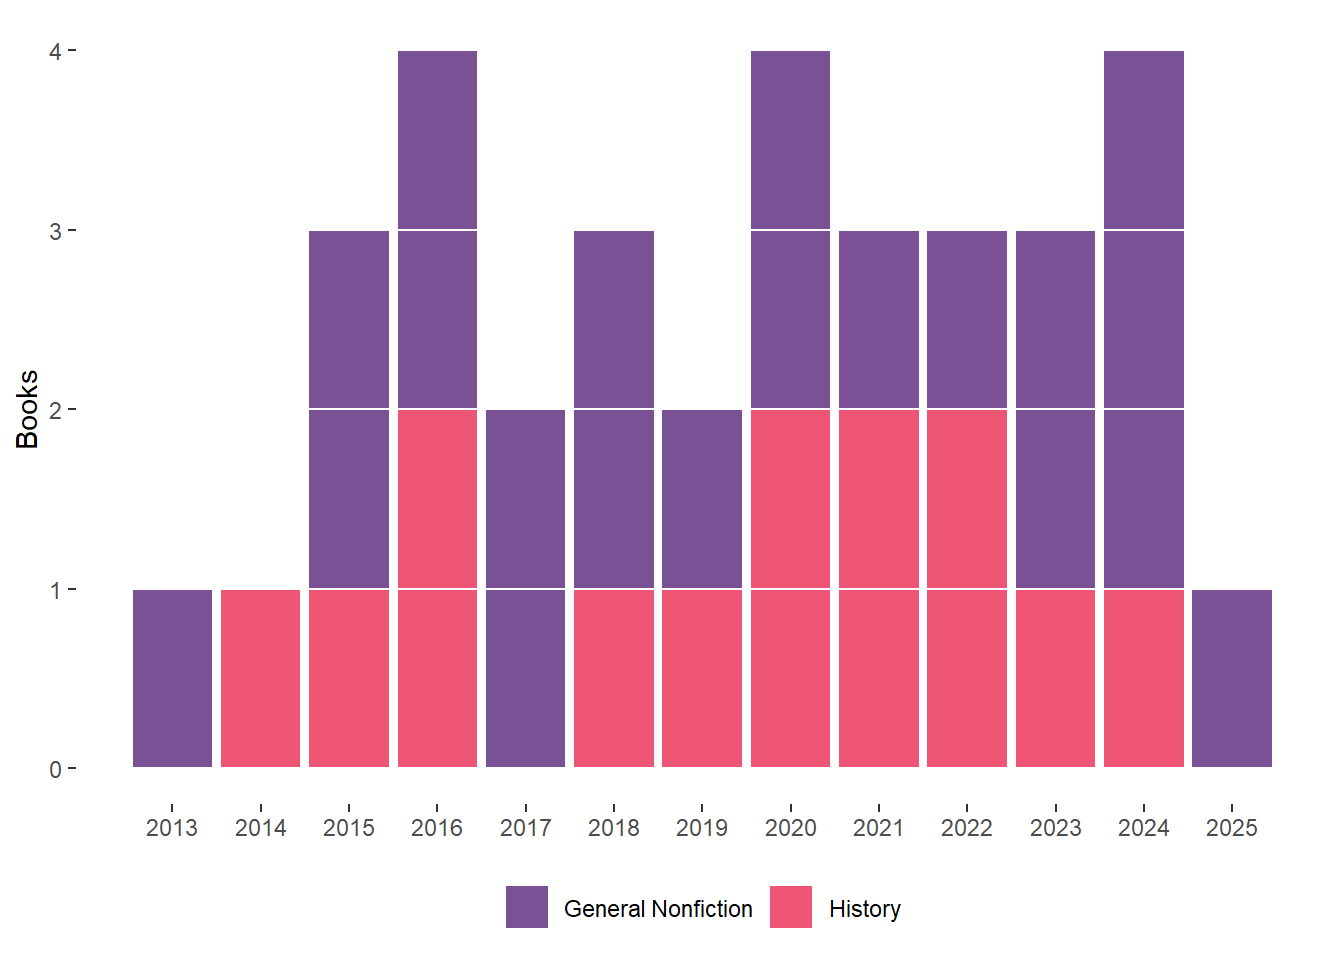
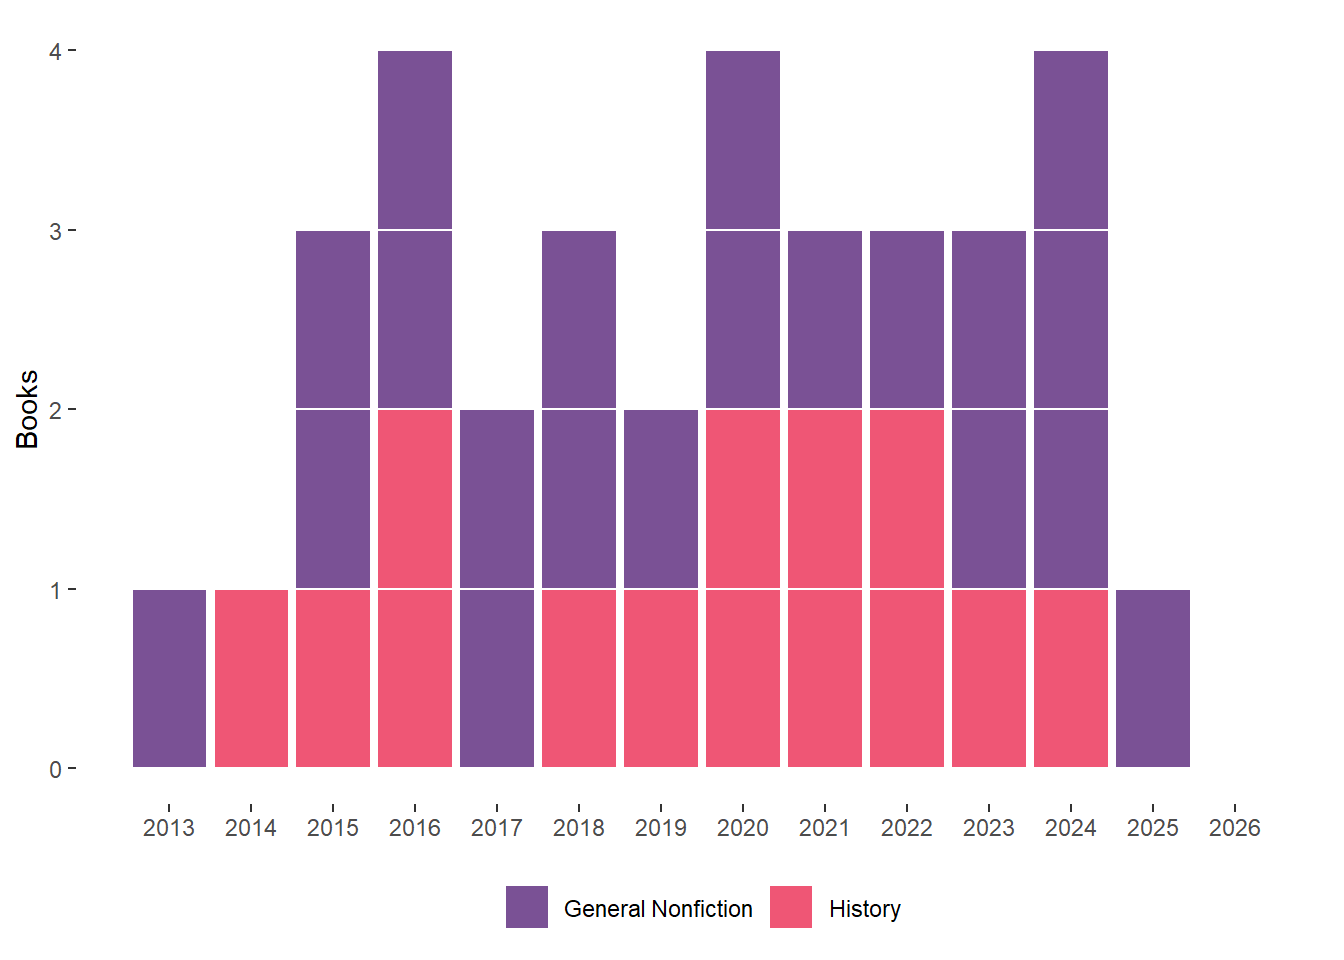
Updated pages

Changed region(s): [[0.1562, 0.0312, 0.9688, 0.8125], [0.0938, 0.8438, 0.9375, 0.875]]

diff --git a/authors.html b/authors.html
@@ -13,7 +13,7 @@
 
 <title>Authors</title>
 
-<script src="site_libs/header-attrs-2.30/header-attrs.js"></script>
+<script src="site_libs/header-attrs-2.31/header-attrs.js"></script>
 <script src="site_libs/jquery-3.6.0/jquery-3.6.0.min.js"></script>
 <meta name="viewport" content="width=device-width, initial-scale=1" />
 <link href="site_libs/bootstrap-3.3.5/css/bootstrap.min.css" rel="stylesheet" />
@@ -32,14 +32,14 @@
 <script src="site_libs/navigation-1.1/tabsets.js"></script>
 <link href="site_libs/highlightjs-9.12.0/default.css" rel="stylesheet" />
 <script src="site_libs/highlightjs-9.12.0/highlight.js"></script>
-<link href="site_libs/htmltools-fill-0.5.8.1/fill.css" rel="stylesheet" />
+<link href="site_libs/htmltools-fill-0.5.9/fill.css" rel="stylesheet" />
 <script src="site_libs/htmlwidgets-1.6.4/htmlwidgets.js"></script>
-<script src="site_libs/plotly-binding-4.11.0/plotly.js"></script>
+<script src="site_libs/plotly-binding-4.12.0/plotly.js"></script>
 <script src="site_libs/typedarray-0.1/typedarray.min.js"></script>
 <link href="site_libs/crosstalk-1.2.2/css/crosstalk.min.css" rel="stylesheet" />
 <script src="site_libs/crosstalk-1.2.2/js/crosstalk.min.js"></script>
-<link href="site_libs/plotly-htmlwidgets-css-2.11.1/plotly-htmlwidgets.css" rel="stylesheet" />
-<script src="site_libs/plotly-main-2.11.1/plotly-latest.min.js"></script>
+<link href="site_libs/plotly-htmlwidgets-css-2.25.2/plotly-htmlwidgets.css" rel="stylesheet" />
+<script src="site_libs/plotly-main-2.25.2/plotly-latest.min.js"></script>
 
 <style type="text/css">
   code{white-space: pre-wrap;}
@@ -281,8 +281,8 @@ reading. Ideally, the books I read will not only entertain me, but
 expand my worldview. There are lots of ways to think and measure that,
 but a simple one is to track the backgrounds of the authors, so I’m
 starting there.</p>
-<div class="plotly html-widget html-fill-item" id="htmlwidget-e2976cebf0024a33a31b" style="width:100%;height:480px;"></div>
-<script type="application/json" data-for="htmlwidget-e2976cebf0024a33a31b">{"x":{"visdat":{"242c65de1aad":["function () ","plotlyVisDat"]},"cur_data":"242c65de1aad","attrs":{"242c65de1aad":{"x":{},"y":{},"mode":"lines+markers","line":{"color":"#ef5675","width":4},"marker":{"color":"#ef5675","size":6},"name":"Authors of Color","alpha_stroke":1,"sizes":[10,100],"spans":[1,20],"type":"scatter"},"242c65de1aad.1":{"x":{},"y":{},"mode":"lines+markers","line":{"color":"#7a5195","width":4},"marker":{"color":"#7a5195","size":6},"name":"Female Authors","alpha_stroke":1,"sizes":[10,100],"spans":[1,20],"type":"scatter","inherit":true}},"layout":{"margin":{"b":40,"l":60,"t":25,"r":10},"legend":{"orientation":"h","font":{"size":12,"family":"Arial"}},"yaxis":{"domain":[0,1],"automargin":true,"title":"Percentage","titlefont":{"size":14,"family":"Arial"}},"xaxis":{"domain":[0,1],"automargin":true,"title":"","tickfont":{"size":12,"family":"Arial"}},"hovermode":"closest","showlegend":true},"source":"A","config":{"modeBarButtonsToAdd":["hoverclosest","hovercompare"],"showSendToCloud":false,"displayModeBar":false},"data":[{"x":[2017,2018,2019,2020,2021,2022,2023,2024,2025,2026],"y":[22.199999999999999,8.6999999999999993,17.399999999999999,33.299999999999997,40,19,16.699999999999999,37.5,66.700000000000003,100],"mode":"lines+markers","line":{"color":"#ef5675","width":4},"marker":{"color":"#ef5675","size":6,"line":{"color":"rgba(31,119,180,1)"}},"name":"Authors of Color","type":"scatter","error_y":{"color":"rgba(31,119,180,1)"},"error_x":{"color":"rgba(31,119,180,1)"},"xaxis":"x","yaxis":"y","frame":null},{"x":[2017,2018,2019,2020,2021,2022,2023,2024,2025,2026],"y":[22.199999999999999,26.100000000000001,30.399999999999999,11.1,50,38.100000000000001,16.699999999999999,25,35.299999999999997,0],"mode":"lines+markers","line":{"color":"#7a5195","width":4},"marker":{"color":"#7a5195","size":6,"line":{"color":"rgba(255,127,14,1)"}},"name":"Female Authors","type":"scatter","error_y":{"color":"rgba(255,127,14,1)"},"error_x":{"color":"rgba(255,127,14,1)"},"xaxis":"x","yaxis":"y","frame":null}],"highlight":{"on":"plotly_click","persistent":false,"dynamic":false,"selectize":false,"opacityDim":0.20000000000000001,"selected":{"opacity":1},"debounce":0},"shinyEvents":["plotly_hover","plotly_click","plotly_selected","plotly_relayout","plotly_brushed","plotly_brushing","plotly_clickannotation","plotly_doubleclick","plotly_deselect","plotly_afterplot","plotly_sunburstclick"],"base_url":"https://plot.ly"},"evals":[],"jsHooks":[]}</script>
+<div class="plotly html-widget html-fill-item" id="htmlwidget-4b3b52c2eed2bbdffa68" style="width:100%;height:480px;"></div>
+<script type="application/json" data-for="htmlwidget-4b3b52c2eed2bbdffa68">{"x":{"visdat":{"55a83b656494":["function () ","plotlyVisDat"]},"cur_data":"55a83b656494","attrs":{"55a83b656494":{"x":{},"y":{},"mode":"lines+markers","line":{"color":"#ef5675","width":4},"marker":{"color":"#ef5675","size":6},"name":"Authors of Color","alpha_stroke":1,"sizes":[10,100],"spans":[1,20],"type":"scatter"},"55a83b656494.1":{"x":{},"y":{},"mode":"lines+markers","line":{"color":"#7a5195","width":4},"marker":{"color":"#7a5195","size":6},"name":"Female Authors","alpha_stroke":1,"sizes":[10,100],"spans":[1,20],"type":"scatter","inherit":true}},"layout":{"margin":{"b":40,"l":60,"t":25,"r":10},"legend":{"orientation":"h","font":{"size":12,"family":"Arial"}},"yaxis":{"domain":[0,1],"automargin":true,"title":"Percentage","titlefont":{"size":14,"family":"Arial"}},"xaxis":{"domain":[0,1],"automargin":true,"title":"","tickfont":{"size":12,"family":"Arial"}},"hovermode":"closest","showlegend":true},"source":"A","config":{"modeBarButtonsToAdd":["hoverclosest","hovercompare"],"showSendToCloud":false,"displayModeBar":false},"data":[{"x":[2017,2018,2019,2020,2021,2022,2023,2024,2025,2026],"y":[22.199999999999999,8.6999999999999993,17.399999999999999,33.299999999999997,40,19,16.699999999999999,37.5,66.700000000000003,50],"mode":"lines+markers","line":{"color":"#ef5675","width":4},"marker":{"color":"#ef5675","size":6,"line":{"color":"rgba(31,119,180,1)"}},"name":"Authors of Color","type":"scatter","error_y":{"color":"rgba(31,119,180,1)"},"error_x":{"color":"rgba(31,119,180,1)"},"xaxis":"x","yaxis":"y","frame":null},{"x":[2017,2018,2019,2020,2021,2022,2023,2024,2025,2026],"y":[22.199999999999999,26.100000000000001,30.399999999999999,11.1,50,38.100000000000001,16.699999999999999,25,33.299999999999997,33.299999999999997],"mode":"lines+markers","line":{"color":"#7a5195","width":4},"marker":{"color":"#7a5195","size":6,"line":{"color":"rgba(255,127,14,1)"}},"name":"Female Authors","type":"scatter","error_y":{"color":"rgba(255,127,14,1)"},"error_x":{"color":"rgba(255,127,14,1)"},"xaxis":"x","yaxis":"y","frame":null}],"highlight":{"on":"plotly_click","persistent":false,"dynamic":false,"selectize":false,"opacityDim":0.20000000000000001,"selected":{"opacity":1},"debounce":0},"shinyEvents":["plotly_hover","plotly_click","plotly_selected","plotly_relayout","plotly_brushed","plotly_brushing","plotly_clickannotation","plotly_doubleclick","plotly_deselect","plotly_afterplot","plotly_sunburstclick"],"base_url":"https://plot.ly"},"evals":[],"jsHooks":[]}</script>
 
 
 

diff --git a/pullitzer.html b/pullitzer.html
@@ -296,8 +296,8 @@ class="section level5">
 <h2>The full list</h2>
 <p>These are the finalists and winners of general nonfiction and
 history, and my progress in reading them.</p>
-<div class="reactable html-widget html-fill-item" id="htmlwidget-66e55d0888a2282f01ba" style="width:auto;height:auto;"></div>
-<script type="application/json" data-for="htmlwidget-66e55d0888a2282f01ba">{"x":{"tag":{"name":"Reactable","attribs":{"data":{"year":[2025,2025,2025,2025,2025,2025,2024,2024,2024,2024,2024,2024,2023,2023,2023,2023,2023,2023,2023,2022,2022,2022,2022,2022,2022,2021,2021,2021,2021,2021,2021,2020,2020,2020,2020,2020,2020,2019,2019,2019,2019,2019,2019,2018,2018,2018,2018,2018,2018,2017,2017,2017,2017,2017,2017,2016,2016,2016,2016,2016,2016,2016,2015,2015,2015,2015,2015,2015,2014,2014,2014,2014,2014,2014,2013,2013,2013,2013,2013,2013,2012,2012,2012,2012,2012,2012,2012,2011,2011,2011,2011,2011,2011,2010,2010,2010],"short.title":["Combee","Native Nations","Plantation Goods","To the Success of Our Hopeless Cause","I Am on the Hit List","Until I Find You","No Right to an Honest Living","American Anarchy","Continental Reckoning","A Day in the Life of Abed Salama","Fire Weather","Cobalt Red","Freedom's Dominion","Seeing Red","Watergate","His Name Is George Floyd","Kingdom of Characters","Sounds Wild and Broken","Under the Skin","Covered with Night","Cuba","Until Justice Be Done","Invisible Child","Home, Land, Security","The Family Roe","Franchise","The Three-Cornered War","The Deviant's War","Wilmington's Lie","Minor Feelings","Yellow Bird","Sweet Taste of Liberty ","Race for Profit","The End of the Myth ","The Undying","Solitary","Elderhood","Frederick Douglass ","American Eden ","Civilizing Torture ","Amity and Prosperity","In a Day's Work","Rising","The Gulf","Fear City","Hitler in Los Angeles ","Locking Up Our Own ","Notes on a Foreign Country ","The Evolution of Beauty","Blood in the Water ","Brothers at Arms","New England Bound","Evicted","In a Different Key ","The Politics of Mourning ","Custer's Trials","Marching Home","Target Tokyo","The Pentagon's Brain","Black Flags","Between the World and Me","If the Oceans Were Ink ","Encounters at the Heart of the World","An Empire on the Edge","Empire of Cotton","The Sixth Extinction","Age of Ambition","No Good Men Among the Living","The Internal Enemy","A Dreadful Deceit","Command and Control","Toms River","The Blood Telegram","The Insurgents","Embers of War","Lincoln's Code","The Barbarous Years","Devil in the Grove","Behind the Beautiful Forevers","The Forest Unseen","Malcolm X","Empires, Nations & Families","Railroaded","The Eleventh Day","The Swerve","One Hundred Names For Love","Unnatural Selection","The Fiery Trial","Confederate Reckoning","Eden on the Charles","The Emperor of All Maladies","Empire of the Summer Moon","The Shallows","Lords of Finance","Empire of Liberty","Fordlandia"],"author":["Edda L. Fields-Black","Kathleen DuVal","Seth Rockman","Benjamin Nathans","Rollo Romig","Rachel Nolan","Jacqueline Jones","Michael Willrich","Elliott West","Nathan Thrall","John Vaillant","Siddharth Kara","Jefferson Cowie","Michael John Witgen","Garrett M. Graff","Robert Samuels and Toluse Olorunnipa","Jing Tsu","David George Haskell","Linda Villarosa","Nicole Eustace","Ada Ferrer","Kate Masur","Andrea Elliott","Carla Power","Joshua Prager","Marcia Chatelain","Megan Kate Nelson","Eric Cervini","David Zucchino","Cathy Park Hong","Sierra Crane Murdoch","W. Caleb McDaniel","Keeanga-Yamhatta Taylor","Greg Grandin","Anne Boyer","Albert Woodfox","Louise Aronson","David W. Blight","Victoria Johnson","W. Fitzhugh Brundage","Eliza Griswold","Bernice Yeung","Elizabeth Rush","Jack E. Davis","Kim Phillips-Fein","Steven J. Ross","James Forman Jr.","Suzy Hansen","Richard O. Prum","Heather Ann Thompson","Larrie D. Ferreiro","Wendy Warren","Matthew Desmond","John Donvan and Caren Zucker","Micki McElya","T.J. Stiles","Brian Matthew Jordan","James M. Scott","Annie Jacobsen","Joby Warrick","Ta-Nehisi Coates","Carla Power","Elizabeth A. Fenn","Nick Bunker","Steven Beckert","Elizabeth Kolbert","Evan Osnos","Anand Gopal","Alan Taylor","Jacqueline Jones","Eric Schlosser","Dan Fagin","Gary J. Bass","Fred Kaplan","Fredrik Logeval","John Fabian Witt","Bernard Bailyn","Gilbert King","Katherine Boo","David George Haskell","Manning Marable","Anne F. Hyde","Richard White","Anthony Summers and Robbyn Swan","Stephen Greenblatt","Diane Ackerman","Mara Hvistendahl","Eric Foner","Stephanie McCurry","Michael Rawson","Siddhartha Mukherjee","S.C. Gwynne","Nicholas Carr","Liaquat Ahamed","Gordon S. Wood","Greg Grandin"],"read":["No","No","No","No","Yes","No","No","Yes","No","Yes","Yes","Yes","No","No","Yes","No","Yes","No","Yes","Yes","Yes","No","No","Yes","No","Yes","Yes","No","No","No","Yes","Yes","Yes","Yes","No","Yes","No","No","No","Yes","Yes","No","No","Yes","No","No","Yes","No","Yes","No","No","No","Yes","Yes","No","Yes","No","No","Yes","Yes","Yes","No","Yes","No","No","No","Yes","Yes","No","No","Yes","No","No","No","No","No","No","No","Yes","No","No","No","No","No","No","No","No","No","No","No","No","No","No","No","No","No"],"award":["Winner","Winner","Finalist","Winner","Finalist","Finalist","Winner","Finalist","Finalist","Winner","Finalist","Finalist","Winner","Finalist","Finalist","Winner","Finalist","Finalist","Finalist","Winner","Winner","Finalist","Winner","Finalist","Finalist","Winner","Finalist","Finalist","Winner","Finalist","Finalist","Winner","Finalist","Winner","Winner","Finalist","Finalist","Winner","Finalist","Finalist","Winner","Finalist","Finalist","Winner","Finalist","Finalist","Winner","Finalist","Finalist","Winner","Finalist","Finalist","Winner","Finalist","Finalist","Winner","Finalist","Finalist","Finalist","Winner","Finalist","Finalist","Winner","Finalist","Finalist","Winner","Finalist","Finalist","Winner","Finalist","Finalist","Winner","Finalist","Finalist","Winner","Finalist","Finalist","Winner","Finalist","Finalist","Winner","Finalist","Finalist","Finalist","Winner","Finalist","Finalist","Winner","Finalist","Finalist","Winner","Finalist","Finalist","Winner","Finalist","Finalist"],"category":["History","History","History","General Non-Fiction","General Non-Fiction","General Non-Fiction","History","History","History","General Non-Fiction","General Non-Fiction","General Non-Fiction","History","History","History","General Non-Fiction","General Non-Fiction","General Non-Fiction","General Non-Fiction","History","History","History","General Non-Fiction","General Non-Fiction","General Non-Fiction","History","History","History","General Non-Fiction","General Non-Fiction","General Non-Fiction","History","History","General Non-Fiction","General Non-Fiction","General Non-Fiction","General Non-Fiction","History","History","History","General Non-Fiction","General Non-Fiction","General Non-Fiction","History","History","History","General Non-Fiction","General Non-Fiction","General Non-Fiction","History","History","History","General Non-Fiction","General Non-Fiction","General Non-Fiction","History","History","History","History","General Non-Fiction","General Non-Fiction","General Non-Fiction","History","History","History","General Non-Fiction","General Non-Fiction","General Non-Fiction","History","History","History","General Non-Fiction","General Non-Fiction","General Non-Fiction","History","History","History","General Non-Fiction","General Non-Fiction","General Non-Fiction","History","History","History","History","General Non-Fiction","General Non-Fiction","General Non-Fiction","History","History","History","General Non-Fiction","General Non-Fiction","General Non-Fiction","History","History","History"]},"columns":[{"id":"year","name":"Year","type":"numeric"},{"id":"short.title","name":"Title","type":"character","minWidth":150},{"id":"author","name":"Author","type":"character"},{"id":"read","name":"Read","type":"character","cell":["❌","❌","❌","❌","✔️","❌","❌","✔️","❌","✔️","✔️","✔️","❌","❌","✔️","❌","✔️","❌","✔️","✔️","✔️","❌","❌","✔️","❌","✔️","✔️","❌","❌","❌","✔️","✔️","✔️","✔️","❌","✔️","❌","❌","❌","✔️","✔️","❌","❌","✔️","❌","❌","✔️","❌","✔️","❌","❌","❌","✔️","✔️","❌","✔️","❌","❌","✔️","✔️","✔️","❌","✔️","❌","❌","❌","✔️","✔️","❌","❌","✔️","❌","❌","❌","❌","❌","❌","❌","✔️","❌","❌","❌","❌","❌","❌","❌","❌","❌","❌","❌","❌","❌","❌","❌","❌","❌"],"maxWidth":75},{"id":"award","name":"Award","type":"character"},{"id":"category","name":"Category","type":"character"}],"defaultPageSize":20,"showSortable":true,"rowStyle":[null,null,null,null,{"fontWeight":"bold"},null,null,{"fontWeight":"bold"},null,{"fontWeight":"bold"},{"fontWeight":"bold"},{"fontWeight":"bold"},null,null,{"fontWeight":"bold"},null,{"fontWeight":"bold"},null,{"fontWeight":"bold"},{"fontWeight":"bold"},{"fontWeight":"bold"},null,null,{"fontWeight":"bold"},null,{"fontWeight":"bold"},{"fontWeight":"bold"},null,null,null,{"fontWeight":"bold"},{"fontWeight":"bold"},{"fontWeight":"bold"},{"fontWeight":"bold"},null,{"fontWeight":"bold"},null,null,null,{"fontWeight":"bold"},{"fontWeight":"bold"},null,null,{"fontWeight":"bold"},null,null,{"fontWeight":"bold"},null,{"fontWeight":"bold"},null,null,null,{"fontWeight":"bold"},{"fontWeight":"bold"},null,{"fontWeight":"bold"},null,null,{"fontWeight":"bold"},{"fontWeight":"bold"},{"fontWeight":"bold"},null,{"fontWeight":"bold"},null,null,null,{"fontWeight":"bold"},{"fontWeight":"bold"},null,null,{"fontWeight":"bold"},null,null,null,null,null,null,null,{"fontWeight":"bold"},null,null,null,null,null,null,null,null,null,null,null,null,null,null,null,null,null],"dataKey":"eaa9c2d989e6ada8e3a5c3778c7cecc0"},"children":[]},"class":"reactR_markup"},"evals":[],"jsHooks":[]}</script>
+<div class="reactable html-widget html-fill-item" id="htmlwidget-cbf29876589b1da23353" style="width:auto;height:auto;"></div>
+<script type="application/json" data-for="htmlwidget-cbf29876589b1da23353">{"x":{"tag":{"name":"Reactable","attribs":{"data":{"year":[2026,2026,2026,2026,2026,2026,2025,2025,2025,2025,2025,2025,2024,2024,2024,2024,2024,2024,2023,2023,2023,2023,2023,2023,2023,2022,2022,2022,2022,2022,2022,2021,2021,2021,2021,2021,2021,2020,2020,2020,2020,2020,2020,2019,2019,2019,2019,2019,2019,2018,2018,2018,2018,2018,2018,2017,2017,2017,2017,2017,2017,2016,2016,2016,2016,2016,2016,2016,2015,2015,2015,2015,2015,2015,2014,2014,2014,2014,2014,2014,2013,2013,2013,2013,2013,2013,2012,2012,2012,2012,2012,2012,2012,2011,2011,2011,2011,2011,2011,2010,2010,2010],"short.title":["We the People","King of Kings","Born in Flames","There Is No Place for Us","A Flower Traveled in My Blood","Mother Emanuel","Combee","Native Nations","Plantation Goods","To the Success of Our Hopeless Cause","I Am on the Hit List","Until I Find You","No Right to an Honest Living","American Anarchy","Continental Reckoning","A Day in the Life of Abed Salama","Fire Weather","Cobalt Red","Freedom's Dominion","Seeing Red","Watergate","His Name Is George Floyd","Kingdom of Characters","Sounds Wild and Broken","Under the Skin","Covered with Night","Cuba","Until Justice Be Done","Invisible Child","Home, Land, Security","The Family Roe","Franchise","The Three-Cornered War","The Deviant's War","Wilmington's Lie","Minor Feelings","Yellow Bird","Sweet Taste of Liberty ","Race for Profit","The End of the Myth ","The Undying","Solitary","Elderhood","Frederick Douglass ","American Eden ","Civilizing Torture ","Amity and Prosperity","In a Day's Work","Rising","The Gulf","Fear City","Hitler in Los Angeles ","Locking Up Our Own ","Notes on a Foreign Country ","The Evolution of Beauty","Blood in the Water ","Brothers at Arms","New England Bound","Evicted","In a Different Key ","The Politics of Mourning ","Custer's Trials","Marching Home","Target Tokyo","The Pentagon's Brain","Black Flags","Between the World and Me","If the Oceans Were Ink ","Encounters at the Heart of the World","An Empire on the Edge","Empire of Cotton","The Sixth Extinction","Age of Ambition","No Good Men Among the Living","The Internal Enemy","A Dreadful Deceit","Command and Control","Toms River","The Blood Telegram","The Insurgents","Embers of War","Lincoln's Code","The Barbarous Years","Devil in the Grove","Behind the Beautiful Forevers","The Forest Unseen","Malcolm X","Empires, Nations & Families","Railroaded","The Eleventh Day","The Swerve","One Hundred Names For Love","Unnatural Selection","The Fiery Trial","Confederate Reckoning","Eden on the Charles","The Emperor of All Maladies","Empire of the Summer Moon","The Shallows","Lords of Finance","Empire of Liberty","Fordlandia"],"author":["Jill Lepore","Scott Anderson","Bench Ansfield","Brian Goldstone","Haley Cohen Gilliland","Kevin Sack","Edda L. Fields-Black","Kathleen DuVal","Seth Rockman","Benjamin Nathans","Rollo Romig","Rachel Nolan","Jacqueline Jones","Michael Willrich","Elliott West","Nathan Thrall","John Vaillant","Siddharth Kara","Jefferson Cowie","Michael John Witgen","Garrett M. Graff","Robert Samuels and Toluse Olorunnipa","Jing Tsu","David George Haskell","Linda Villarosa","Nicole Eustace","Ada Ferrer","Kate Masur","Andrea Elliott","Carla Power","Joshua Prager","Marcia Chatelain","Megan Kate Nelson","Eric Cervini","David Zucchino","Cathy Park Hong","Sierra Crane Murdoch","W. Caleb McDaniel","Keeanga-Yamhatta Taylor","Greg Grandin","Anne Boyer","Albert Woodfox","Louise Aronson","David W. Blight","Victoria Johnson","W. Fitzhugh Brundage","Eliza Griswold","Bernice Yeung","Elizabeth Rush","Jack E. Davis","Kim Phillips-Fein","Steven J. Ross","James Forman Jr.","Suzy Hansen","Richard O. Prum","Heather Ann Thompson","Larrie D. Ferreiro","Wendy Warren","Matthew Desmond","John Donvan and Caren Zucker","Micki McElya","T.J. Stiles","Brian Matthew Jordan","James M. Scott","Annie Jacobsen","Joby Warrick","Ta-Nehisi Coates","Carla Power","Elizabeth A. Fenn","Nick Bunker","Steven Beckert","Elizabeth Kolbert","Evan Osnos","Anand Gopal","Alan Taylor","Jacqueline Jones","Eric Schlosser","Dan Fagin","Gary J. Bass","Fred Kaplan","Fredrik Logeval","John Fabian Witt","Bernard Bailyn","Gilbert King","Katherine Boo","David George Haskell","Manning Marable","Anne F. Hyde","Richard White","Anthony Summers and Robbyn Swan","Stephen Greenblatt","Diane Ackerman","Mara Hvistendahl","Eric Foner","Stephanie McCurry","Michael Rawson","Siddhartha Mukherjee","S.C. Gwynne","Nicholas Carr","Liaquat Ahamed","Gordon S. Wood","Greg Grandin"],"read":["No","No","No","No","No","No","No","No","No","No","Yes","No","No","Yes","No","Yes","Yes","Yes","No","No","Yes","No","Yes","No","Yes","Yes","Yes","No","No","Yes","No","Yes","Yes","No","No","No","Yes","Yes","Yes","Yes","No","Yes","No","No","No","Yes","Yes","No","No","Yes","No","No","Yes","No","Yes","No","No","No","Yes","Yes","No","Yes","No","No","Yes","Yes","Yes","No","Yes","No","No","No","Yes","Yes","No","No","Yes","No","No","No","No","No","No","No","Yes","No","No","No","No","No","No","No","No","No","No","No","No","No","No","No","No","No"],"award":["Winner","Finalist","Finalist","Winner","Finalist","Finalist","Winner","Winner","Finalist","Winner","Finalist","Finalist","Winner","Finalist","Finalist","Winner","Finalist","Finalist","Winner","Finalist","Finalist","Winner","Finalist","Finalist","Finalist","Winner","Winner","Finalist","Winner","Finalist","Finalist","Winner","Finalist","Finalist","Winner","Finalist","Finalist","Winner","Finalist","Winner","Winner","Finalist","Finalist","Winner","Finalist","Finalist","Winner","Finalist","Finalist","Winner","Finalist","Finalist","Winner","Finalist","Finalist","Winner","Finalist","Finalist","Winner","Finalist","Finalist","Winner","Finalist","Finalist","Finalist","Winner","Finalist","Finalist","Winner","Finalist","Finalist","Winner","Finalist","Finalist","Winner","Finalist","Finalist","Winner","Finalist","Finalist","Winner","Finalist","Finalist","Winner","Finalist","Finalist","Winner","Finalist","Finalist","Finalist","Winner","Finalist","Finalist","Winner","Finalist","Finalist","Winner","Finalist","Finalist","Winner","Finalist","Finalist"],"category":["History","History","History","General Non-Fiction","General Non-Fiction","General Non-Fiction","History","History","History","General Non-Fiction","General Non-Fiction","General Non-Fiction","History","History","History","General Non-Fiction","General Non-Fiction","General Non-Fiction","History","History","History","General Non-Fiction","General Non-Fiction","General Non-Fiction","General Non-Fiction","History","History","History","General Non-Fiction","General Non-Fiction","General Non-Fiction","History","History","History","General Non-Fiction","General Non-Fiction","General Non-Fiction","History","History","General Non-Fiction","General Non-Fiction","General Non-Fiction","General Non-Fiction","History","History","History","General Non-Fiction","General Non-Fiction","General Non-Fiction","History","History","History","General Non-Fiction","General Non-Fiction","General Non-Fiction","History","History","History","General Non-Fiction","General Non-Fiction","General Non-Fiction","History","History","History","History","General Non-Fiction","General Non-Fiction","General Non-Fiction","History","History","History","General Non-Fiction","General Non-Fiction","General Non-Fiction","History","History","History","General Non-Fiction","General Non-Fiction","General Non-Fiction","History","History","History","General Non-Fiction","General Non-Fiction","General Non-Fiction","History","History","History","History","General Non-Fiction","General Non-Fiction","General Non-Fiction","History","History","History","General Non-Fiction","General Non-Fiction","General Non-Fiction","History","History","History"]},"columns":[{"id":"year","name":"Year","type":"numeric"},{"id":"short.title","name":"Title","type":"character","minWidth":150},{"id":"author","name":"Author","type":"character"},{"id":"read","name":"Read","type":"character","cell":["❌","❌","❌","❌","❌","❌","❌","❌","❌","❌","✔️","❌","❌","✔️","❌","✔️","✔️","✔️","❌","❌","✔️","❌","✔️","❌","✔️","✔️","✔️","❌","❌","✔️","❌","✔️","✔️","❌","❌","❌","✔️","✔️","✔️","✔️","❌","✔️","❌","❌","❌","✔️","✔️","❌","❌","✔️","❌","❌","✔️","❌","✔️","❌","❌","❌","✔️","✔️","❌","✔️","❌","❌","✔️","✔️","✔️","❌","✔️","❌","❌","❌","✔️","✔️","❌","❌","✔️","❌","❌","❌","❌","❌","❌","❌","✔️","❌","❌","❌","❌","❌","❌","❌","❌","❌","❌","❌","❌","❌","❌","❌","❌","❌"],"maxWidth":75},{"id":"award","name":"Award","type":"character"},{"id":"category","name":"Category","type":"character"}],"defaultPageSize":20,"showSortable":true,"rowStyle":[null,null,null,null,null,null,null,null,null,null,{"fontWeight":"bold"},null,null,{"fontWeight":"bold"},null,{"fontWeight":"bold"},{"fontWeight":"bold"},{"fontWeight":"bold"},null,null,{"fontWeight":"bold"},null,{"fontWeight":"bold"},null,{"fontWeight":"bold"},{"fontWeight":"bold"},{"fontWeight":"bold"},null,null,{"fontWeight":"bold"},null,{"fontWeight":"bold"},{"fontWeight":"bold"},null,null,null,{"fontWeight":"bold"},{"fontWeight":"bold"},{"fontWeight":"bold"},{"fontWeight":"bold"},null,{"fontWeight":"bold"},null,null,null,{"fontWeight":"bold"},{"fontWeight":"bold"},null,null,{"fontWeight":"bold"},null,null,{"fontWeight":"bold"},null,{"fontWeight":"bold"},null,null,null,{"fontWeight":"bold"},{"fontWeight":"bold"},null,{"fontWeight":"bold"},null,null,{"fontWeight":"bold"},{"fontWeight":"bold"},{"fontWeight":"bold"},null,{"fontWeight":"bold"},null,null,null,{"fontWeight":"bold"},{"fontWeight":"bold"},null,null,{"fontWeight":"bold"},null,null,null,null,null,null,null,{"fontWeight":"bold"},null,null,null,null,null,null,null,null,null,null,null,null,null,null,null,null,null],"dataKey":"4d1af46b627fbb7dfe07cf36281e9b51"},"children":[]},"class":"reactR_markup"},"evals":[],"jsHooks":[]}</script>
 </div>
 
 